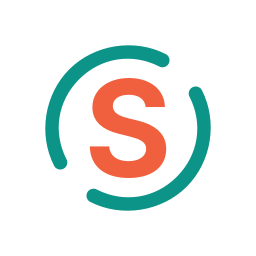
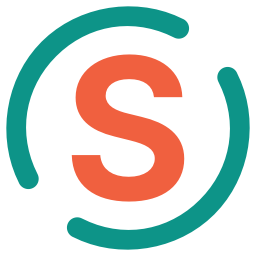
Sluice 0.10.5 (beta)

diff --git a/sluice/ui_icons.py b/sluice/ui_icons.py
@@ -288,36 +288,46 @@ TALKING_RING = "#4fb5aa"  # the ring colour about 35% lighter, for the closed ri
 MUTED_RED = "#ef4444"
 
 
+TRAY_CROP = (20.5, 87.0)   # the logo file is cropped to the part that has ink: from 20.5, 87 units wide (the same as its viewBox)
+
+
 def tray_pixmap(state: str, px: int) -> QPixmap:
     """The logo for the system tray, on a transparent background like the logo itself: plain; while you talk the ring closes
     and gets heavier and lighter; while your microphone is muted the whole logo fades, the ring turns red, and a red badge
-    sits in the corner. Drawn at the exact pixel size so it stays sharp in the tray."""
+    sits in the corner. The picture is cropped to the logo so it fills the tray slot like the other icons there, and drawn
+    at the exact pixel size so it stays sharp."""
     from PySide6.QtSvg import QSvgRenderer
 
     pixmap = QPixmap(px, px)
     pixmap.fill(Qt.GlobalColor.transparent)
     painter = QPainter(pixmap)
     painter.setRenderHint(QPainter.RenderHint.Antialiasing)
-    k = px / 128.0
+    origin, size = TRAY_CROP
+    k = px / size
+    painter.scale(k, k)
+    painter.translate(-origin, -origin)   # from here on everything is drawn in the logo's own 128-unit picture
     ring = {"muted": MUTED_RED, "talking": TALKING_RING}.get(state)
     renderer = QSvgRenderer(_logo_svg(ring) or b"")
     if state == "talking":
         painter.setBrush(Qt.BrushStyle.NoBrush)
-        painter.setPen(QPen(QColor(TALKING_RING), max(1.5, 10 * k)))
-        painter.drawEllipse(QPointF(64 * k, 64 * k), 38 * k, 38 * k)   # the two gaps fill in: a closed ring
+        painter.setPen(QPen(QColor(TALKING_RING), max(1.5 / k, 10.0)))
+        painter.drawEllipse(QPointF(64, 64), 38, 38)   # the two gaps fill in: a closed ring
     if state == "muted":
         painter.setOpacity(0.45)
     if renderer.isValid():
-        renderer.render(painter, QRectF(0, 0, px, px))   # the logo (for "talking" with the ring in the lighter colour)
+        renderer.render(painter, QRectF(origin, origin, size, size))   # the logo (for "talking" with the ring in the lighter colour)
     painter.setOpacity(1.0)
     if state == "muted":
-        centre = QPointF(98 * k, 98 * k)
-        painter.setPen(QPen(QColor("#10131a"), max(1.0, 4 * k)))   # a dark rim so the badge stands out on any tray
+        end = origin + size
+        radius = 0.234 * size   # the badge keeps its share of the icon
+        centre = QPointF(end - radius - 1.0, end - radius - 1.0)
+        painter.setPen(QPen(QColor("#10131a"), max(1.0 / k, 3.0)))   # a dark rim so the badge stands out on any tray
         painter.setBrush(QColor(MUTED_RED))
-        painter.drawEllipse(centre, 30 * k, 30 * k)
+        painter.drawEllipse(centre, radius, radius)
         painter.setPen(Qt.PenStyle.NoPen)
         painter.setBrush(QColor("#ffffff"))
-        painter.drawRoundedRect(QRectF(centre.x() - 15 * k, centre.y() - 4.5 * k, 30 * k, 9 * k), 4.5 * k, 4.5 * k)
+        bar_w, bar_h = radius * 1.0, radius * 0.3
+        painter.drawRoundedRect(QRectF(centre.x() - bar_w / 2, centre.y() - bar_h / 2, bar_w, bar_h), bar_h / 2, bar_h / 2)
     painter.end()
     return pixmap
 

diff --git a/tests/test_0103.py b/tests/test_0103.py
@@ -474,3 +474,69 @@ def test_cpu_used_before_a_restart_is_not_counted_whichever_thread_the_program_r
     thread.start()
     thread.join()
     assert sum(result["split"].values()) < 0.25, result["split"]
+
+
+# ------------------------------------------------------------------ the wheel over a level number
+def _wheel(widget, delta, modifiers=None):
+    from PySide6.QtCore import QPoint, QPointF, Qt
+    from PySide6.QtGui import QWheelEvent
+    from PySide6.QtWidgets import QApplication
+
+    mods = modifiers or Qt.KeyboardModifier.NoModifier
+    event = QWheelEvent(QPointF(5, 5), widget.mapToGlobal(QPointF(5, 5)), QPoint(0, 0), QPoint(0, delta), Qt.MouseButton.NoButton,
+                        mods, Qt.ScrollPhase.NoScrollPhase, False)
+    QApplication.sendEvent(widget, event)
+    return event
+
+
+def test_wheel_over_a_channel_level_number_moves_that_level(window):
+    strip = window.strips[0]
+    mix_id = next(iter(strip.readouts))
+    readout, fader = strip.readouts[mix_id], strip.faders[mix_id]
+    start = fader.gain()
+    event = _wheel(readout, 120)  # one notch up
+    assert event.isAccepted()
+    assert fader.gain() == start + 10  # 1 dB
+    _wheel(readout, -240)  # two notches down
+    assert fader.gain() == start - 10
+    from sluice.ui import format_db
+
+    assert readout.text() == format_db((start - 10) / 10)  # the number shows the new level
+    assert window.engine.mixer.channel(strip.channel.id).levels[mix_id] == pytest.approx((start - 10) / 10, abs=0.11)  # and the audio follows
+
+
+def test_shift_wheel_makes_fine_steps_and_the_ends_hold(window):
+    from PySide6.QtCore import Qt
+
+    strip = window.strips[0]
+    mix_id = next(iter(strip.readouts))
+    readout, fader = strip.readouts[mix_id], strip.faders[mix_id]
+    fader.setGain(0)
+    _wheel(readout, 120, Qt.KeyboardModifier.ShiftModifier)
+    assert fader.gain() == 1  # 0.1 dB
+    for _ in range(80):
+        _wheel(readout, 120)
+    from sluice.model import MAX_DB, MIN_DB
+
+    assert fader.gain() == int(MAX_DB * 10)
+    for _ in range(400):
+        _wheel(readout, -120)
+    assert fader.gain() == int(MIN_DB * 10)
+
+
+def test_wheel_over_the_master_level_number_moves_the_master(window):
+    strip = window.mix_strips[0]
+    strip.fader.setGain(0)
+    _wheel(strip.readout, 120)
+    assert strip.fader.gain() == 10
+
+
+def test_other_readouts_still_ignore_the_wheel(qapp):
+    from sluice.ui_widgets import ReadoutEdit
+
+    box = ReadoutEdit()
+    box.show()
+    seen = []
+    box.wheeled.connect(seen.append)
+    _wheel(box, 120)
+    assert seen == []

diff --git a/sluice/ui.py b/sluice/ui.py
@@ -908,7 +908,9 @@ class ChannelStrip(QWidget):
         readout = ReadoutEdit(None)
         readout.setProperty("compact", self.compact)
         readout.setAccessibleName(f"{self.channel.label}, {mix.label} level in decibels")
-        readout.setToolTip("Click and type a level in dB (for example -12), then press Enter")
+        readout.setToolTip("Scroll over the number to change the level (hold Shift for fine steps), or click and type a level in dB (for example -12) and press Enter")
+        readout.wheel_steps = True
+        readout.wheeled.connect(partial(self._wheel_level, mix.id))
         readout.entered.connect(partial(self._typed_level, mix.id))
         mute = QPushButton()
         mute.setObjectName("mute")
@@ -1110,6 +1112,10 @@ class ChannelStrip(QWidget):
             self.engine.set_level(self.channel.id, mix_id, max(MIN_DB, min(MAX_DB, number)))
         self.sync_from_model()  # shows the real value again, also when what was typed was not a number
 
+    def _wheel_level(self, mix_id: str, notches: float) -> None:
+        fader = self.faders[mix_id]
+        fader.setGain(max(int(MIN_DB * 10), min(int(MAX_DB * 10), fader.gain() + int(round(notches * 10)))))
+
     def _on_mute(self, mix_id: str, on: bool) -> None:
         self.engine.set_mute(self.channel.id, mix_id, on)
 
@@ -1178,7 +1184,9 @@ class MixStrip(QFrame):
         self.readout = ReadoutEdit(None)
         self.readout.setProperty("big", True)
         self.readout.setAccessibleName(f"{mix.label} level in decibels")
-        self.readout.setToolTip("Click and type a level in dB (for example -6), then press Enter")
+        self.readout.setToolTip("Scroll over the number to change the level (hold Shift for fine steps), or click and type a level in dB (for example -6) and press Enter")
+        self.readout.wheel_steps = True
+        self.readout.wheeled.connect(self._wheel_gain)
         self.readout.entered.connect(self._typed_gain)
         if on_remove is not None:  # the optional third mix can be taken away again from its own card
             menu_button = _icon_button("more", "Options for this mix", 32, compact=True)
@@ -1337,6 +1345,9 @@ class MixStrip(QFrame):
         if number is not None and number == number:
             self.engine.set_master(self.mix.id, max(MIN_DB, min(MAX_DB, number)))
         self.sync_from_model()
+
+    def _wheel_gain(self, notches: float) -> None:
+        self.fader.setGain(max(int(MIN_DB * 10), min(int(MAX_DB * 10), self.fader.gain() + int(round(notches * 10)))))
 
     def _on_gain(self, value: int) -> None:
         db = value / 10.0

diff --git a/sluice/ui_widgets.py b/sluice/ui_widgets.py
@@ -38,6 +38,8 @@ class ReadoutEdit(QLineEdit):
     text again from the real value, so a bad entry just snaps back."""
 
     entered = Signal(object)
+    wheeled = Signal(float)  # notches turned over the box (up is positive); emitted only when ``wheel_steps`` is on
+    wheel_steps = False
 
     def __init__(self, width: Optional[int] = 78) -> None:
         super().__init__()
@@ -48,6 +50,19 @@ class ReadoutEdit(QLineEdit):
         self.setToolTip("Click and type a value, then press Enter")
         self.editingFinished.connect(self._finished)
         self.returnPressed.connect(self.clearFocus)
+
+    def wheelEvent(self, event) -> None:
+        """Hovering over a level and turning the wheel nudges it, like the fader beside it. Shift makes the steps fine."""
+        if not self.wheel_steps or not self.isEnabled():
+            super().wheelEvent(event)
+            return
+        delta = event.angleDelta().y() or event.angleDelta().x()  # some systems turn Shift+wheel into a sideways scroll
+        if delta:
+            notches = delta / 120.0
+            if event.modifiers() & Qt.KeyboardModifier.ShiftModifier:
+                notches /= 10.0
+            self.wheeled.emit(notches)
+        event.accept()
 
     def _finished(self) -> None:
         if self.isModified() or self.hasFocus():

diff --git a/sluice/__init__.py b/sluice/__init__.py
@@ -1,4 +1,4 @@
 # SPDX-License-Identifier: GPL-3.0-or-later
 """sluice: a virtual audio mixer for PipeWire."""
 
-__version__ = "0.10.4"
+__version__ = "0.10.5"

diff --git a/CHANGELOG.md b/CHANGELOG.md
@@ -1,5 +1,15 @@
 # Changelog
 
+## 0.10.5
+A small follow-up to 0.10.4: a bigger tray icon, a logo with no empty margin around it, and the mouse wheel on the level numbers.
+- **Scroll over a level number to change it.** Put the mouse on a channel's Listen, Broadcast or Record number (or the master number) and
+  turn the wheel: one notch is 1 dB, and holding **Shift** makes it 0.1 dB for fine steps. The level stops at the ends (+12 and -60 dB),
+  and a linked channel moves all its levels together, as the faders do. Typing a number still works. The other number boxes ignore
+  the wheel, so scrolling a list past them never changes a setting by accident. The tooltips say so.
+- **A larger tray icon.** The logo now fills the tray icon, so it is easier to see in a small panel.
+- **The logo files are trimmed to the logo.** The picture used to carry an empty margin, which made the icon look small in the tray, in
+  the applications menu and in file managers. The margin is gone from the SVG and every PNG size.
+
 ## 0.10.4
 A follow-up to 0.10.3: the new logo, finished (and its tray icons to match), a button that no longer gets cut off, and a quieter, clearer bug report.
 - **The logo, finished.** The ring is deep teal and the S is coral, on a **transparent background** (no tile), so it reads on light and dark

diff --git a/sluice/data/CHANGELOG.md b/sluice/data/CHANGELOG.md
@@ -1,5 +1,15 @@
 # Changelog
 
+## 0.10.5
+A small follow-up to 0.10.4: a bigger tray icon, a logo with no empty margin around it, and the mouse wheel on the level numbers.
+- **Scroll over a level number to change it.** Put the mouse on a channel's Listen, Broadcast or Record number (or the master number) and
+  turn the wheel: one notch is 1 dB, and holding **Shift** makes it 0.1 dB for fine steps. The level stops at the ends (+12 and -60 dB),
+  and a linked channel moves all its levels together, as the faders do. Typing a number still works. The other number boxes ignore
+  the wheel, so scrolling a list past them never changes a setting by accident. The tooltips say so.
+- **A larger tray icon.** The logo now fills the tray icon, so it is easier to see in a small panel.
+- **The logo files are trimmed to the logo.** The picture used to carry an empty margin, which made the icon look small in the tray, in
+  the applications menu and in file managers. The margin is gone from the SVG and every PNG size.
+
 ## 0.10.4
 A follow-up to 0.10.3: the new logo, finished (and its tray icons to match), a button that no longer gets cut off, and a quieter, clearer bug report.
 - **The logo, finished.** The ring is deep teal and the S is coral, on a **transparent background** (no tile), so it reads on light and dark

diff --git a/README.md b/README.md
@@ -15,11 +15,16 @@ An open-source virtual audio mixer for Linux (PipeWire). Put your mic, games, mu
 > and use the Sluice support forum. Please do not post the `sluice --report` file there: it contains device and app
 > names, so offer it in a private ticket instead.
 
-## What's new in 0.10.4
+## What's new in 0.10.5
+
+Scroll the mouse wheel over a level number to change it (one notch is 1 dB, **Shift** for 0.1 dB), a larger tray icon, and logo files with the
+empty margin trimmed off. 0.10.4 and earlier are below.
+
+**Added in 0.10.4:**
 
 The finished logo (a deep teal ring and a coral S on a transparent background) with tray icons to match, a *Mute my microphone* button that is
 no longer cut off, an Alt-key letter of its own for every menu item, and a quieter bug report (old crash traces move to an archive, the
-maths libraries in use are listed, and the CPU numbers are fairer after an update). 0.10.3 and earlier are below.
+maths libraries in use are listed, and the CPU numbers are fairer after an update).
 
 **Added in 0.10.3:**
 
